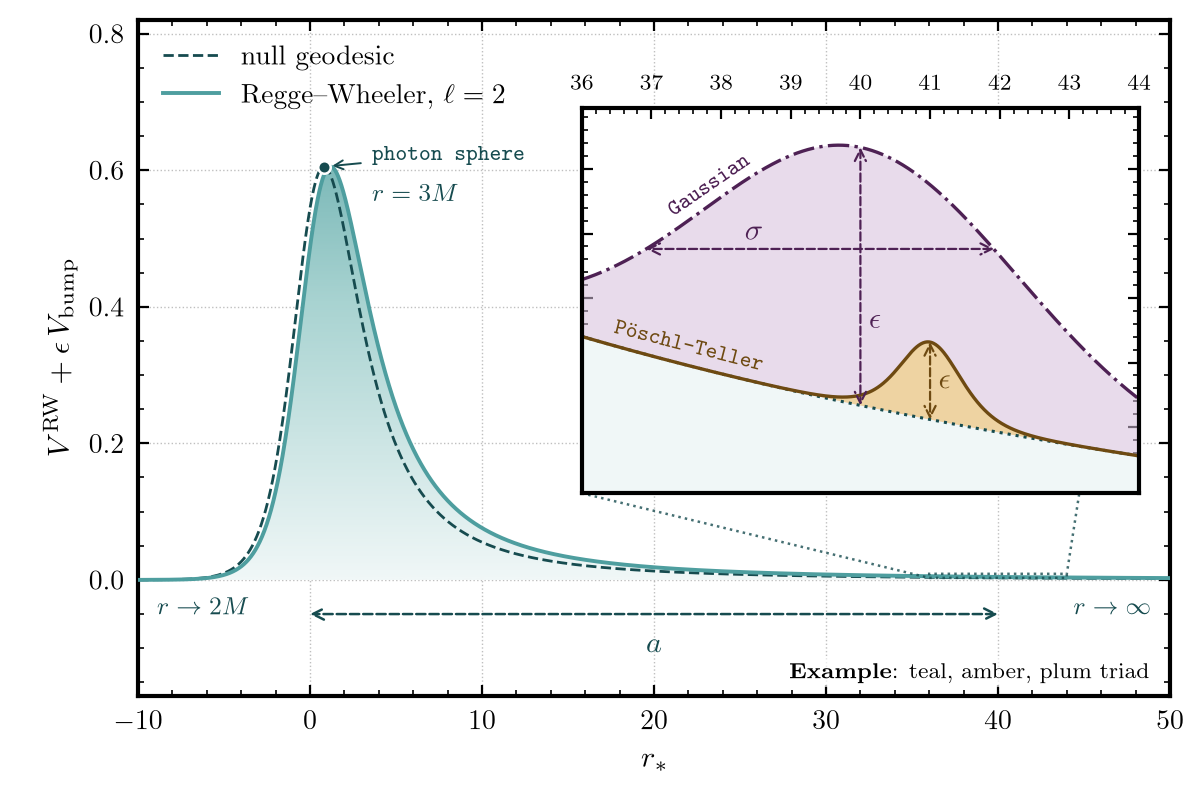
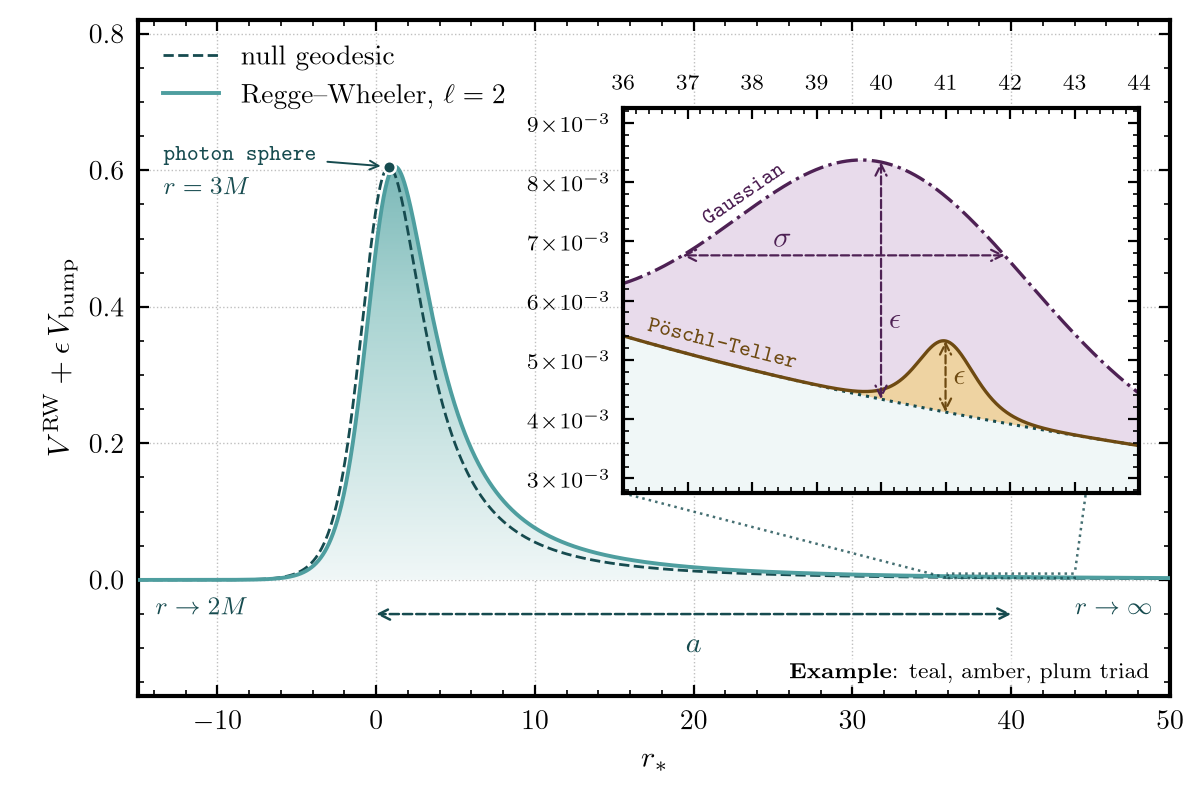
amore examples: new labels on the first plot, a cleaner bump plot with an inset y axis, and the author block
Claude-Session: https://claude.ai/code/session_014jvk12Cx7MpCLE6J3t3DqW

diff --git a/src/python/amore/examples.py b/src/python/amore/examples.py
@@ -4,6 +4,15 @@ The line plots and the colour maps have one plot area (amore.figure), saved with
 The corner plot, the standard map and the pendulum strip have their own sizes.
 
 Run: make plot-examples
+
+Copyright (c) 2026 Subhodeep Sarkar. Licence: MIT (LICENSE-MIT.txt in the repository root).
+
+    Name:         Subhodeep Sarkar
+    Affiliation:  IIT Gandhinagar
+    Contact:      subhodeep.sarkar1@gmail.com
+    Date:         August 2026
+    GitHub:       https://github.com/subhodeeps/amore.mplstyle
+    Website:      https://subhodeeps.github.io/
 """
 import sys
 from pathlib import Path
@@ -27,7 +36,10 @@ def example_tag(feature):
 
 
 def wave_packet():
-    """Blue palette: a signal and a reference, a shaded transient, an inset and an arrow."""
+    """Blue palette: a mock black-hole ringdown signal and a mock echo signal from an exotic
+    compact object (ECO), a shaded prompt-ringdown region, an inset and an arrow. Loosely based
+    on Fig. 9 of Living Rev. Relativ. 22 (2019) 4. This is a schematic plot, not the output of an
+    actual simulation."""
     c = amore.palette("blue")
     t = np.linspace(0, 60, 6000)
     first = np.exp(-((t - 8) / 3) ** 2) * np.sin(2.2 * t)
@@ -35,11 +47,11 @@ def wave_packet():
                 for k in range(1, 4))
 
     fig, ax = amore.figure()
-    ax.plot(t, first, color=c["ink"], ls="--", label="reference", zorder=3)
-    ax.plot(t, first + later, color=c["main"], label="signal", zorder=2)
+    ax.plot(t, first, color=c["ink"], ls="--", label="mock BH ringdown", zorder=3)
+    ax.plot(t, first + later, color=c["main"], label="mock ECO ringdown", zorder=2)
     ax.set_xlim(0, 60)
     ax.set_ylim(-1.2, 1.8)
-    amore.shade(ax, 0, 15, "transient", y=1.3, palette="blue")
+    amore.shade(ax, 0, 15, "mock prompt ringdown", y=0.9, palette="blue")
     ax.annotate("", xy=(22, -0.75), xytext=(36, -0.75),
                 arrowprops=dict(arrowstyle="<->", lw=0.8, color="black", shrinkA=0, shrinkB=0))
     ax.text(29, -0.82, r"$\Delta t$", ha="center", va="top", fontsize=10)
@@ -64,7 +76,6 @@ def tortoise_to_r(rstar):
 def potential_with_bump():
     """Teal, amber and plum (close to a triad): the Regge-Wheeler potential, and the same
     potential with a small Poschl-Teller or Gaussian bump at a distance a from the peak.
-
     The barrier has a vertical gradient fill. The dashed curve is the effective potential of
     null geodesics, V_null = (1 - 2M/r) L^2 / r^2, from the radial equation
     (dr/dlambda)^2 + V_null = E^2. A null ray depends only on b = L/E, so the scale of V_null is
@@ -73,8 +84,9 @@ def potential_with_bump():
     r_* = 1.5 + log 0.5), marked with a dot. The Regge-Wheeler peak is at r = 1.64 for l = 2;
     for large l the potential tends to V_null with L^2 = l (l + 1). The labels at the two ends
     show that r_* -> -inf at the horizon r = 2M and r_* -> +inf at spatial infinity."""
+    from matplotlib.ticker import FuncFormatter, MultipleLocator
     teal, amber, plum = (amore.palette(n) for n in ("teal", "amber", "plum"))
-    rstar = np.linspace(-10, 50, 6000)
+    rstar = np.linspace(-15, 50, 6000)
     r = tortoise_to_r(rstar)
     v_rw = (1 - 1 / r) * (6 / r ** 2 - 3 / r ** 3)           # l = 2, spin 2, units 2M = 1
     r_photon = 1.5                                            # r = 3M, units 2M = 1
@@ -87,13 +99,13 @@ def potential_with_bump():
     at = lambda xs, v: np.interp(xs, rstar, v)                # noqa: E731
 
     fig, ax = amore.figure()
-    ax.set_xlim(-10, 50)
+    ax.set_xlim(-15, 50)
     ax.set_ylim(-0.17, 0.82)
     # The gradient fill: a vertical ramp from the shade tone at V = 0 to the light tone at the
     # peak, clipped to the area under the potential.
     under = ax.fill_between(rstar, v_rw, color="none", lw=0)
     ramp = LinearSegmentedColormap.from_list("ramp", [teal["shade"], teal["light"], teal["main"]])
-    fill = ax.imshow(np.linspace(0, 1, 256)[:, None], extent=(-10, 50, 0, v_rw.max()),
+    fill = ax.imshow(np.linspace(0, 1, 256)[:, None], extent=(-15, 50, 0, v_rw.max()),
                      origin="lower", aspect="auto", cmap=ramp, vmin=0, vmax=1.35, zorder=1)
     fill.set_clip_path(under.get_paths()[0], transform=ax.transData)
     ax.plot(rstar, v_null, color=teal["ink"], lw=1.0, ls="--", zorder=4,
@@ -101,11 +113,11 @@ def potential_with_bump():
     x_ps, y_ps = r_photon + np.log(r_photon - 1), v_rw.max()
     ax.plot([x_ps], [y_ps], ls="none", marker="o", ms=4.5, color=teal["ink"], mec="white",
             mew=0.9, zorder=5)
-    ax.text(3.6, 0.555, r"$r = 3M$", color=teal["ink"], fontsize=9)
-    ax.annotate(r"\texttt{photon sphere}", xy=(x_ps, y_ps), xytext=(3.6, 0.615),
+    ax.text(-13.4, 0.565, r"$r = 3M$", color=teal["ink"], fontsize=9)
+    ax.annotate(r"\texttt{photon sphere}", xy=(x_ps, y_ps), xytext=(-13.4, 0.615),
                 fontsize=8, color=teal["ink"],
                 arrowprops=dict(arrowstyle="->", lw=0.7, color=teal["ink"], shrinkA=2, shrinkB=3))
-    ax.text(-8.9, -0.025, r"$r \to 2M$", color=teal["ink"], fontsize=9, va="top")
+    ax.text(-13.9, -0.025, r"$r \to 2M$", color=teal["ink"], fontsize=9, va="top")
     ax.text(48.9, -0.025, r"$r \to \infty$", color=teal["ink"], fontsize=9, va="top", ha="right")
     ax.plot(rstar, v_rw, color=teal["main"], lw=1.4, zorder=4, label=r"Regge--Wheeler, $\ell = 2$")
     ax.annotate("", xy=(0, -0.05), xytext=(b, -0.05),
@@ -115,12 +127,32 @@ def potential_with_bump():
 
     window = (rstar >= 36) & (rstar <= 44)
     lo, hi = v_rw[window].min(), v_g[window].max()
-    pad = 0.12 * (hi - lo)
-    ins = amore.inset(ax, [0.43, 0.30, 0.54, 0.57], xlim=(36, 44), ylim=(lo - pad, hi + pad))
-    ins.set_yticklabels([])
-    ins.tick_params(axis="x", labeltop=True, labelbottom=False)   # keep the zoom lines clear
+    # The y range of the inset runs from one whole tick to another (every 0.001), with a quarter
+    # of a step of free space below the lowest tick and above the highest, so that the ticks are
+    # evenly spaced and the frame does not touch the end ticks.
+    step = 0.001
+    t_lo = np.floor((lo - 0.1 * (hi - lo)) / step) * step     # lowest tick, 0.003
+    t_hi = np.ceil((hi + 0.1 * (hi - lo)) / step) * step      # highest tick, 0.009
+    y_lo, y_hi = t_lo - 0.25 * step, t_hi + 0.25 * step
+    # The inset starts at 0.47, to the right of where the curve of the main plot passes the
+    # y labels of the inset.
+    ins = amore.inset(ax, [0.47, 0.30, 0.50, 0.57], xlim=(36, 44), ylim=(y_lo, y_hi))
+    ins.set_zorder(10)
+    ins.patch.set_facecolor("white")
+    ins.patch.set_alpha(1)
+    for spine in ins.spines.values():
+        spine.set_zorder(10)
     ins.grid(False)
-    ins.fill_between(rstar, lo - pad, v_rw, color=teal["shade"], lw=0)       # under the bare V
+    ins.set_axisbelow(False)          # the style draws ticks below the data, under the fills
+    ins.xaxis.set_major_locator(MultipleLocator(1))
+    ins.yaxis.set_major_locator(MultipleLocator(step))
+    ins.yaxis.set_major_formatter(                           # 3 x 10^-3 instead of 0.003
+        FuncFormatter(lambda v, _: r"$%d\!\times\!10^{-3}$" % round(v / 1e-3)))
+    ins.tick_params(axis="both", which="both", direction="in", top=True, bottom=True, left=True,
+                    right=True, zorder=10)
+    ins.tick_params(axis="y", which="major", labelleft=True, labelright=False, labelsize=8)
+    ins.tick_params(axis="x", which="major", labeltop=True, labelbottom=False, labelsize=8)
+    ins.fill_between(rstar, y_lo, v_rw, color=teal["shade"], lw=0)           # under the bare V
     ins.fill_between(rstar, v_rw, v_g, color=plum["light"], alpha=0.55, lw=0)  # Gaussian area
     ins.fill_between(rstar, v_rw, v_pt, color=amber["light"], alpha=0.9, lw=0)  # P-T area
     ins.plot(rstar, v_rw, color=teal["ink"], ls=":", lw=1.1)
@@ -142,6 +174,7 @@ def potential_with_bump():
     ins.annotate("", xy=(left, ys), xytext=(right, ys), arrowprops=dict(arrow, color=plum["ink"]))
     ins.text((left + b) / 2, ys + 0.03 * (hi - lo), r"$\sigma$", color=plum["ink"], ha="center",
              fontsize=11)
+
 
     def along(xs, v, dy):
         """Position and angle of a label that follows curve v at xs, offset dy in data units."""
@@ -686,10 +719,10 @@ def standard_map_image(k, phi_range=(-np.pi, np.pi), p_range=(-np.pi, np.pi), sh
     [-pi, pi]^2 (phi is the horizontal direction of the image and p the vertical one). shape: the
     image size in pixels, (rows, columns); the pixels are square only if
     rows / columns = (p_max - p_min) / (phi_max - phi_min). grid: the (columns, rows) of the grid
-    of initial points, at the centres of equal cells of the window. Each orbit is run for `steps` steps and
-    every point of it that falls in the strip is painted, so every curve of the picture is
-    filled in. Returns an array of shape (rows, columns, 3), with row 0 at p = p_min. Pixels that
-    no orbit visits stay white.
+    of initial points, at the centres of equal cells of the window. Each orbit is run for `steps`
+    steps and every point of it that falls in the window is painted, so every curve of the
+    picture is filled in. Returns an array of shape (rows, columns, 3), with row 0 at p = p_min.
+    Pixels that no orbit visits stay white.
 
     Which orbit gets which colour, in three steps:
     1. A tangent vector evolves with the map and gives the finite-time Lyapunov exponent of the
@@ -871,12 +904,12 @@ def pendulum_portrait():
     is the field used here. Its code block draws the streamlines with `streamplot` on a 30 x 30
     grid with `density = 2`, and the orbits with `odeint` for t from 0 to 45: 4 rotations from
     x = 5 pi with y = -2 ... -1, 4 from x = -5 pi with y = 1 ... 2, and 10 librations from x = 0
-    with y = -1.95 ... 1.95 This function takes the same
-    numbers, except that every orbit has 4001 points (the post uses 300 and 1000, which makes
-    the curves rough). The solver is `solve_ivp` with DOP853 and not the post's `odeint`, and
-    the arrowheads are drawn here and not by the helper `plotarrows` of the post. The post uses a dark background and the colours #52adc8 and #ee5f5b, and ends
-    with `plt.axis('off')`. This figure uses the amore palettes and keeps the amore frame and
-    the tick labels. The size is 10 x 2.5 in (4 : 1 like the 40 x 10 of the post), the same
+    with y = -1.95 ... 1.95. This function takes the same numbers, except that every orbit has
+    4001 points (the post uses 300 and 1000, which makes the curves rough). The solver is
+    `solve_ivp` with DOP853 and not the post's `odeint`, and the arrowheads are drawn here and
+    not by the helper `plotarrows` of the post. The post uses a dark background and the colours
+    #52adc8 and #ee5f5b, and ends with `plt.axis('off')`. This figure uses the amore palettes
+    and keeps the amore frame and the tick labels. The size is 10 x 2.5 in (4 : 1 like the 40 x 10 of the post), the same
     scale of inches as the other examples, so the picture fills the README width. The numbers
     fit the physics: the rotations start at x = +-5 pi, where E = y^2 / 2 + 1 > 1 for y between
     1 and 2, and the librations start at x = 0 with E = y^2 / 2 - 1 < 1 for |y| < 2. The
